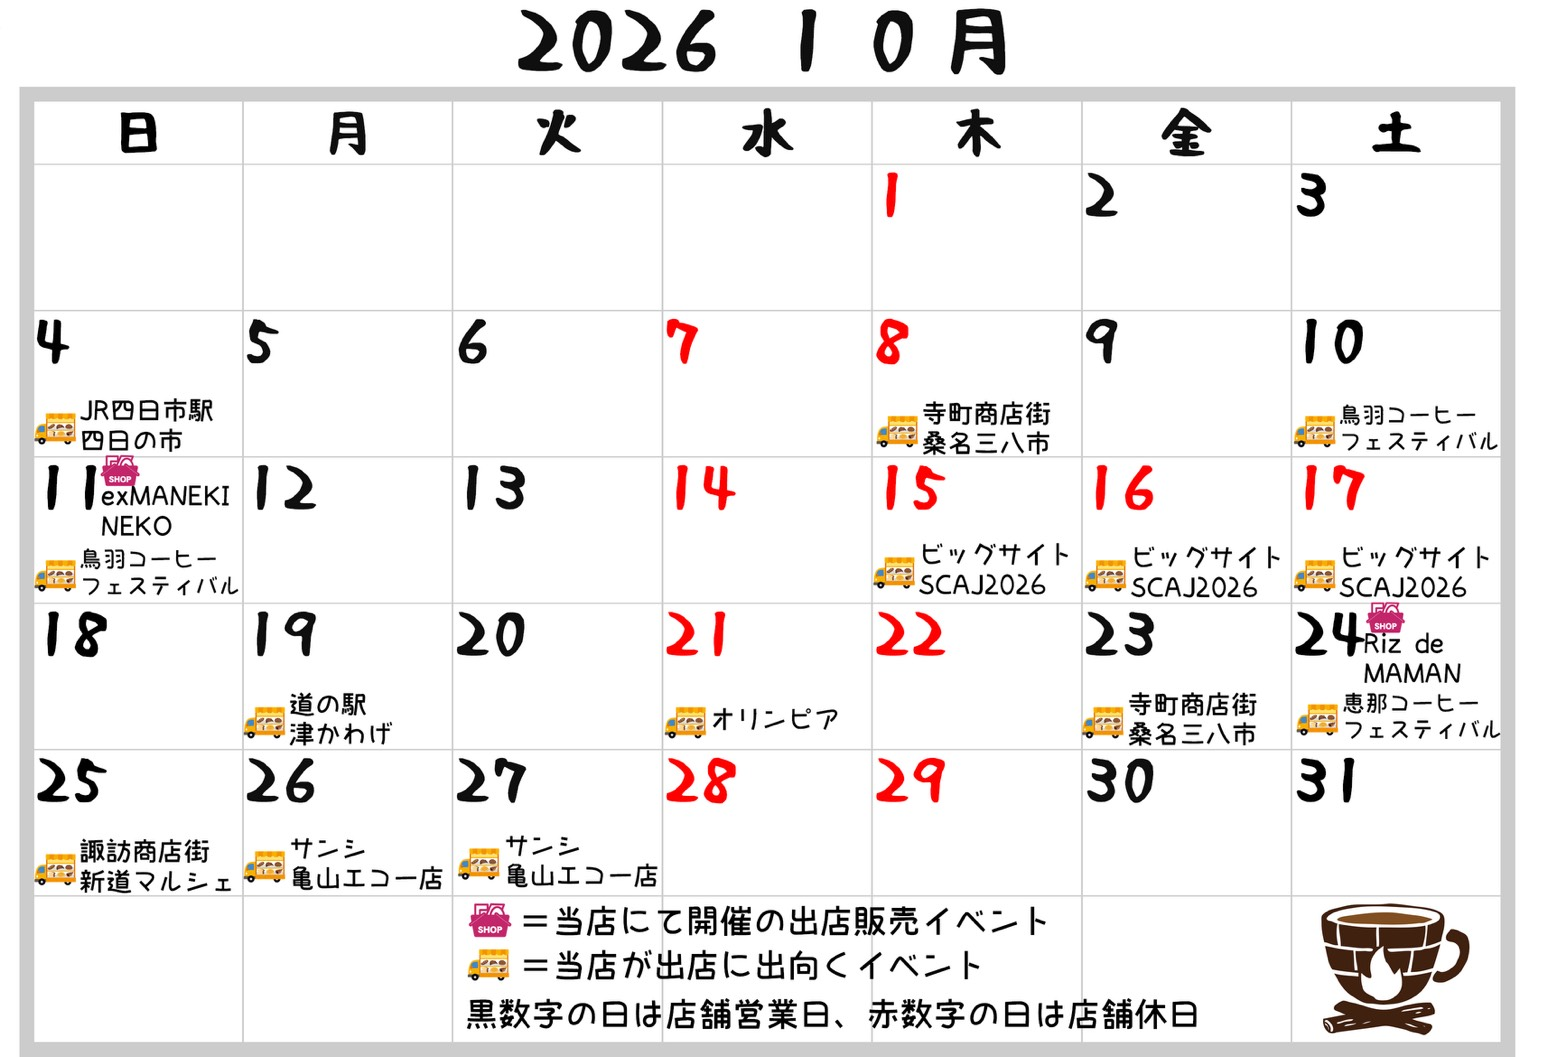
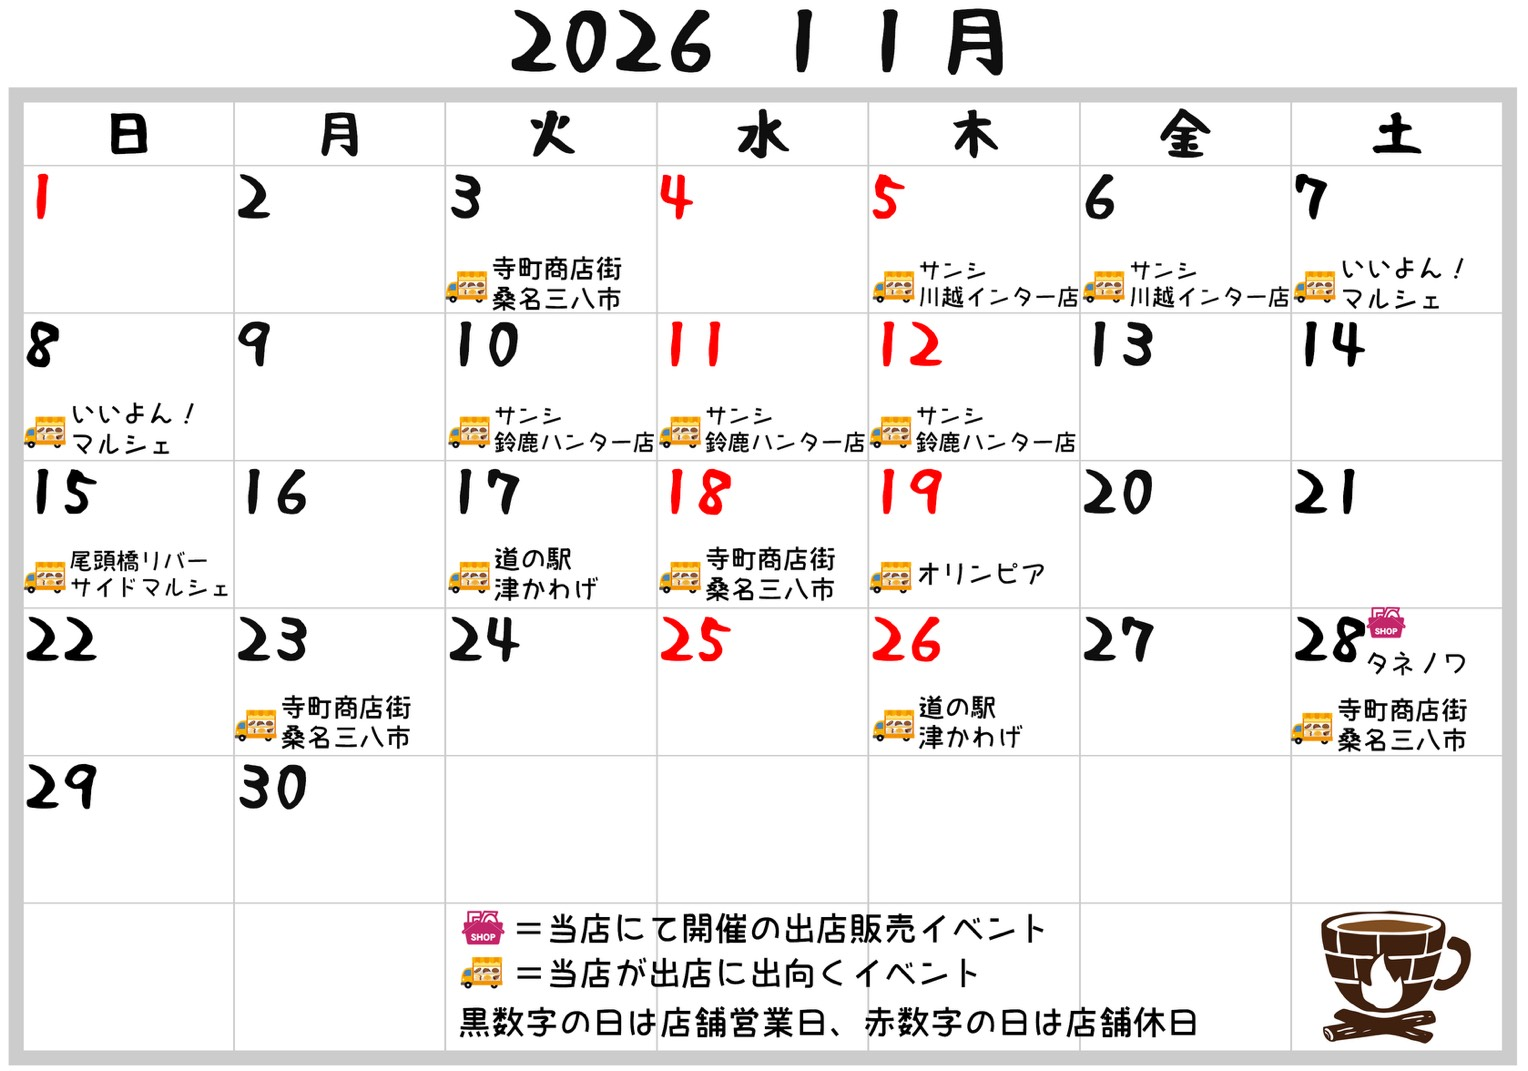
11月

diff --git a/bean.html b/bean.html
@@ -104,11 +104,19 @@
             <a class="btn" href="reserve.html">予約はこちら</a>
         </div>
 
-        <!-- 最新のお知らせ -->
+        <!-- 焙煎豆1 -->
         <div class="event">
             <div class="eventbox">
                 <a href="img/seasonal.jpg" data-lightbox="group">
                     <img src="img/seasonal.jpg" width="100%">
+                </a>
+            </div>
+        </div>
+        <!-- 焙煎豆2 -->
+        <div class="event">
+            <div class="eventbox">
+                <a href="img/seasonal2.jpg" data-lightbox="group">
+                    <img src="img/seasonal2.jpg" width="100%">
                 </a>
             </div>
         </div>

diff --git a/index.html b/index.html
@@ -110,11 +110,12 @@
                 <img src="img/event.jpg" width="100%">
             </a>
         </div>
-        <div class="eventbox">
+        <!-- イベント2 -->
+        <!-- <div class="eventbox">
             <a href="img/event2.jpg" data-lightbox="group">
                 <img src="img/event2.jpg" width="100%">
             </a>
-        </div>
+        </div> -->
         <div class="eventbox">
             <a href="img/calendar.jpg" data-lightbox="group">
                 <img src="img/calendar.jpg" width="100%">
